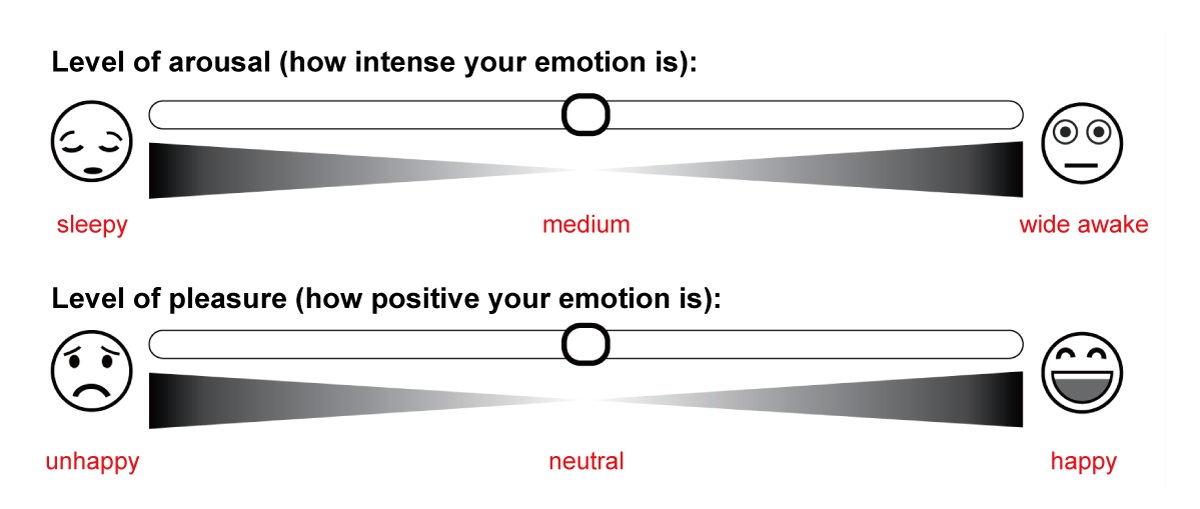
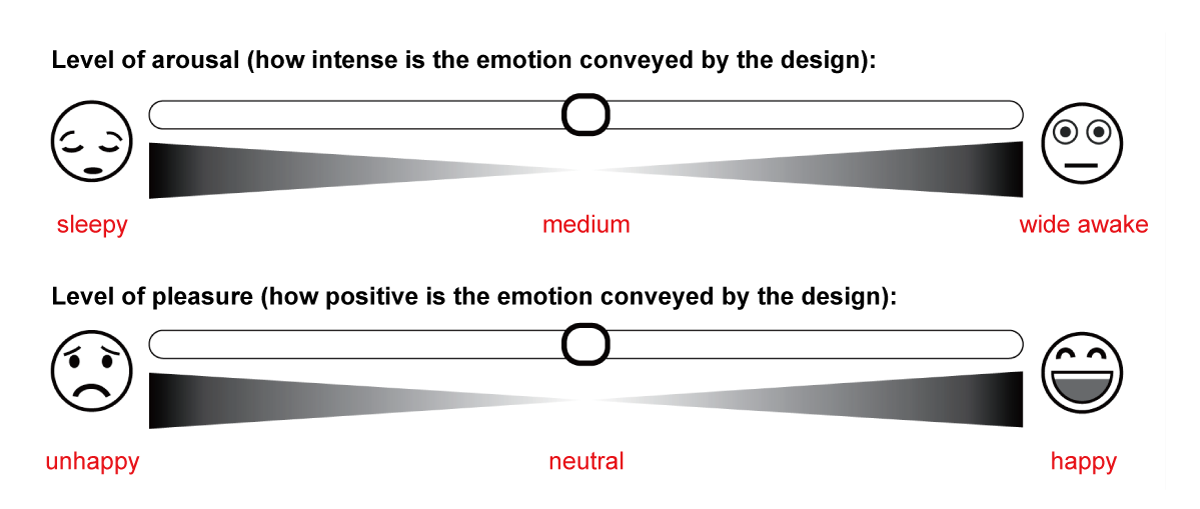
update guidance

Changed region(s): [[0.0308, 0.5599, 0.74, 0.6189], [0.0308, 0.0884, 0.74, 0.1473]]

diff --git a/arousal/js/test.js b/arousal/js/test.js
@@ -11,12 +11,12 @@ function inputListener() {
 //拖动条导致上方显示的数字更新
 function updatePleasureScore() {
     pleasure = document.getElementById('AS-pleasure').nextSibling.children[0].getAttribute("aria-valuenow")
-    document.getElementById('pleasure_score').innerHTML = 'Move the slider to rate your level of Pleasure: ' + pleasure
+    document.getElementById('pleasure_score').innerHTML = 'Move the slider to rate the <strong style="color:red">Pleasure</strong> level of this design: ' + pleasure
 }
 
 function updateArousalScore() {
     arousal = document.getElementById('AS-arousal').nextSibling.children[0].getAttribute("aria-valuenow")
-    document.getElementById('arousal_score').innerHTML = 'Move the slider to rate your level of Arousal: ' + arousal
+    document.getElementById('arousal_score').innerHTML = 'Move the slider to rate the <strong style="color:red">Arousal</strong> level of this design: ' + arousal
 }
 
 
@@ -69,8 +69,8 @@ function save_answer() {
                 // preference_share[s].checked = false
             document.getElementById('AS-pleasure').nextSibling.children[0].style = "left: 50%;"
             document.getElementById('AS-arousal').nextSibling.children[0].style = "left: 50%;"
-            document.getElementById('pleasure_score').innerHTML = 'Move the slider to rate your level of Pleasure: ' + samInitialScore
-            document.getElementById('arousal_score').innerHTML = 'Move the slider to rate your level of Arousal: ' + samInitialScore
+            document.getElementById('pleasure_score').innerHTML = 'Move the slider to rate the <strong style="color:red">Pleasure</strong> level of this design: ' + samInitialScore
+            document.getElementById('arousal_score').innerHTML = 'Move the slider to rate the <strong style="color:red">Arousal</strong> level of this design: ' + samInitialScore
 
             errors = document.getElementsByClassName('error')
             while (errors.length > 0) {
@@ -172,13 +172,13 @@ function gen_pic() {
     // sam.className = "AffectiveSlider";
     sam.setAttribute("class", "AffectiveSlider");
 
-    sam.innerHTML += '<p id="arousal_score">Move the slider to rate your level of Arousal: ' + samInitialScore + '</p>';
+    sam.innerHTML += '<p id="arousal_score">Move the slider to rate the <strong style="color:red">Arousal</strong> level of this design: ' + samInitialScore + '</p>';
     arousal = document.createElement('div');
     arousal.className = "AScontainer arousal";
     arousal.innerHTML = ' <input type="range" name="AS-arousal" id="AS-arousal" value=".5" min="0" max="1" step=".01"><div class="ASintensityCue"></div></div>'
     sam.append(arousal);
 
-    sam.innerHTML += '<p id="pleasure_score">Move the slider to rate your level of Pleasure: ' + samInitialScore + '</p>';
+    sam.innerHTML += '<p id="pleasure_score">Move the slider to rate the <strong style="color:red">Pleasure</strong> level of this design: ' + samInitialScore + '</p>';
     pleasure = document.createElement('div');
     pleasure.className = "AScontainer pleasure";
     pleasure.innerHTML = '<input type="range" name="AS-pleasure" id="AS-pleasure" value=".5" min="0" max="1" step=".01"><div class="ASintensityCue"></div></div>'
